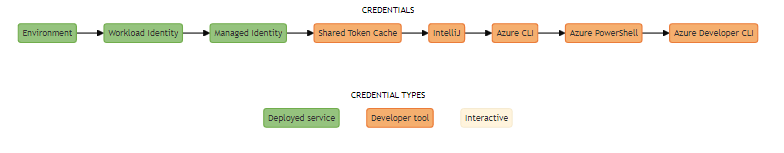
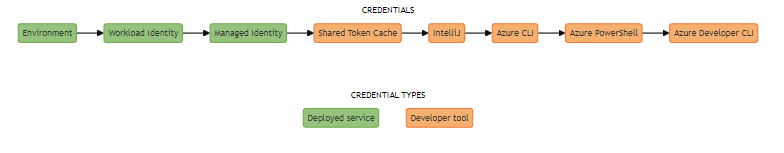
Remove interactive type

Changed region(s): [[0.3367, 0.7059, 0.6735, 0.8366]]

diff --git a/articles/java/sdk/includes/mermaidjs/default-azure-credential-auth-flow.md b/articles/java/sdk/includes/mermaidjs/default-azure-credential-auth-flow.md
@@ -28,7 +28,7 @@ flowchart LR;
 
     subgraph CREDENTIAL TYPES;
         direction LR;
-        Deployed(Deployed service):::deployed ~~~ Developer(Developer tool):::developer ~~~ Interactive(Interactive):::interactive;
+        Deployed(Deployed service):::deployed ~~~ Developer(Developer tool):::developer;
     end;
 
     subgraph CREDENTIALS;
